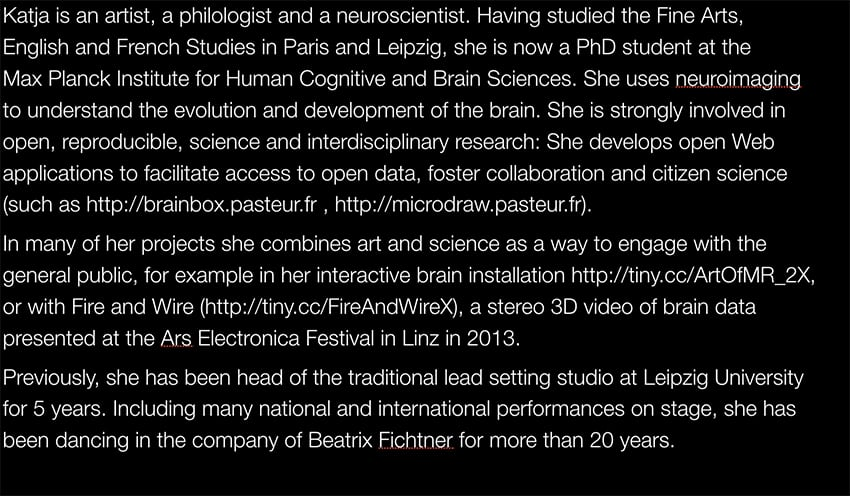
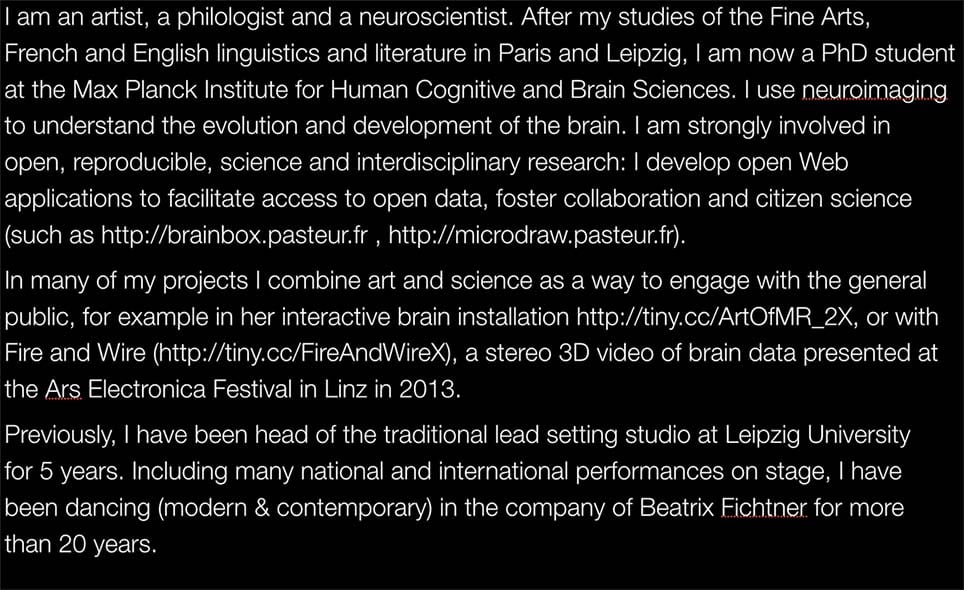
updating bio, implemented as text

Changed region(s): [[0.0, 0.0, 1.0, 0.9375]]

diff --git a/biography/index.html b/biography/index.html
@@ -4,9 +4,25 @@
 	<head>
 		<title>biography</title>
 		<link rel="stylesheet" type="text/css" href="../master.css" />
+		<link href="https://fonts.googleapis.com/css?family=Quicksand:300,500&display=swap" rel="stylesheet">
 		<script data-main="app" src="../js/lib/require.js"></script>
 		<link rel="shortcut icon" type="image/x-icon" href="../star16.png" />
 	</head>
+	<style>
+		p {
+			font-family: 'Quicksand', sans-serif;
+			font-weight: 300;
+			line-height: 1.7rem;;
+		}
+		a {
+			font-weight: 500;
+			cursor: pointer;
+			border-bottom: 0px;
+		}
+		a.hover {
+			border-bottom: 1px;
+		}
+	</style>
 	<body>
 		<div class="container">
 			<div class="title">
@@ -20,15 +36,35 @@
 				<h2 id="#p3" ><a href="#link3">link3</a></h2>
 				-->
 			</div>
-			<div class="content" id="previewDiv">
+			<!-- <div class="content" id="previewDiv">
 				<img id="previewImg" src="content/001.jpg"></img>
+			</div> -->
+			<div class="textcontent">
+				<p>
+					I am an artist, a philologist and a neuroscientist. After my studies of the Fine Arts, 
+					French and English linguistics and literature in Paris and Leipzig, I am now a PhD student 
+					at the Max Planck Institute for Human Cognitive and Brain Sciences. I use neuroimaging 
+					to understand the evolution and development of the brain. I am strongly involved in 
+					open, reproducible, science and interdisciplinary research: I develop <a href="https://www.youtube.com/watch?v=kwsLoVKnw24&t=4s" target="_blank">open Web 
+					applications</a> such as <a href="http://brainbox.pasteur.fr" target="_blank">BrainBox</a> and <a href="http://microdraw.pasteur.fr" target="_blank">MicroDraw</a> to facilitate access to open data, foster
+					collaboration and citizen science. </p>
+				<p> In many of my projects I combine art and science as a way to engage with the general 
+					public, for example in my interactive brain installation <a href="http://tiny.cc/ArtOfMR_2X" target="_blank">Staging the Connectome</a>, or with 
+					<a href="http://tiny.cc/FireAndWireX" target="_blank">Fire and Wire </a>, a stereo 3D video of brain data presented at 
+					the Ars Electronica Festival in Linz in 2013.</p>
+				<p>
+					During my studies, I have been head of the traditional lead setting studio at Leipzig University 
+					for 5 years. Another form of art that has played an important role in my life is dancing. Including many national and international performances on stage, I have 
+					been dancing (modern & contemporary) in the company of Beatrix Fichtner for more 
+					than 20 years. 
+				</p>
 			</div>
-			<div class="content" id="contentDiv1" style="display:none">
+			<!-- <div class="content" id="contentDiv1" style="display:none">
 			</div>
 			<div class="content" id="content2Div2" style="display:none">
 			</div>
 			<div class="content" id="content3Div3" style="display:none">
-			</div>
+			</div> -->
 		</div>
 		
 	</body>

diff --git a/master.css b/master.css
@@ -4,7 +4,7 @@ body {
 	background-color: #000000;
 	color: #ffffff;
 	font-family: "Droid Serif", serif;
-	font-size: 15px
+	font-size: 15px;
 }
 
 h1 {
@@ -23,7 +23,7 @@ h2 {
 
 a {
 	color: #ffffff;
-	text-decoration: none
+	text-decoration: none;
 }
 
 .container {
@@ -52,6 +52,16 @@ a {
 }
 
 .content {
+	position:absolute;
+	background: #000000;
+	width: 640px;
+	height: 500px;
+	overflow: hidden;
+	top: 320px;
+	left: 240px;
+}
+
+.textcontent {
 	position:absolute;
 	background: #000000;
 	width: 640px;
